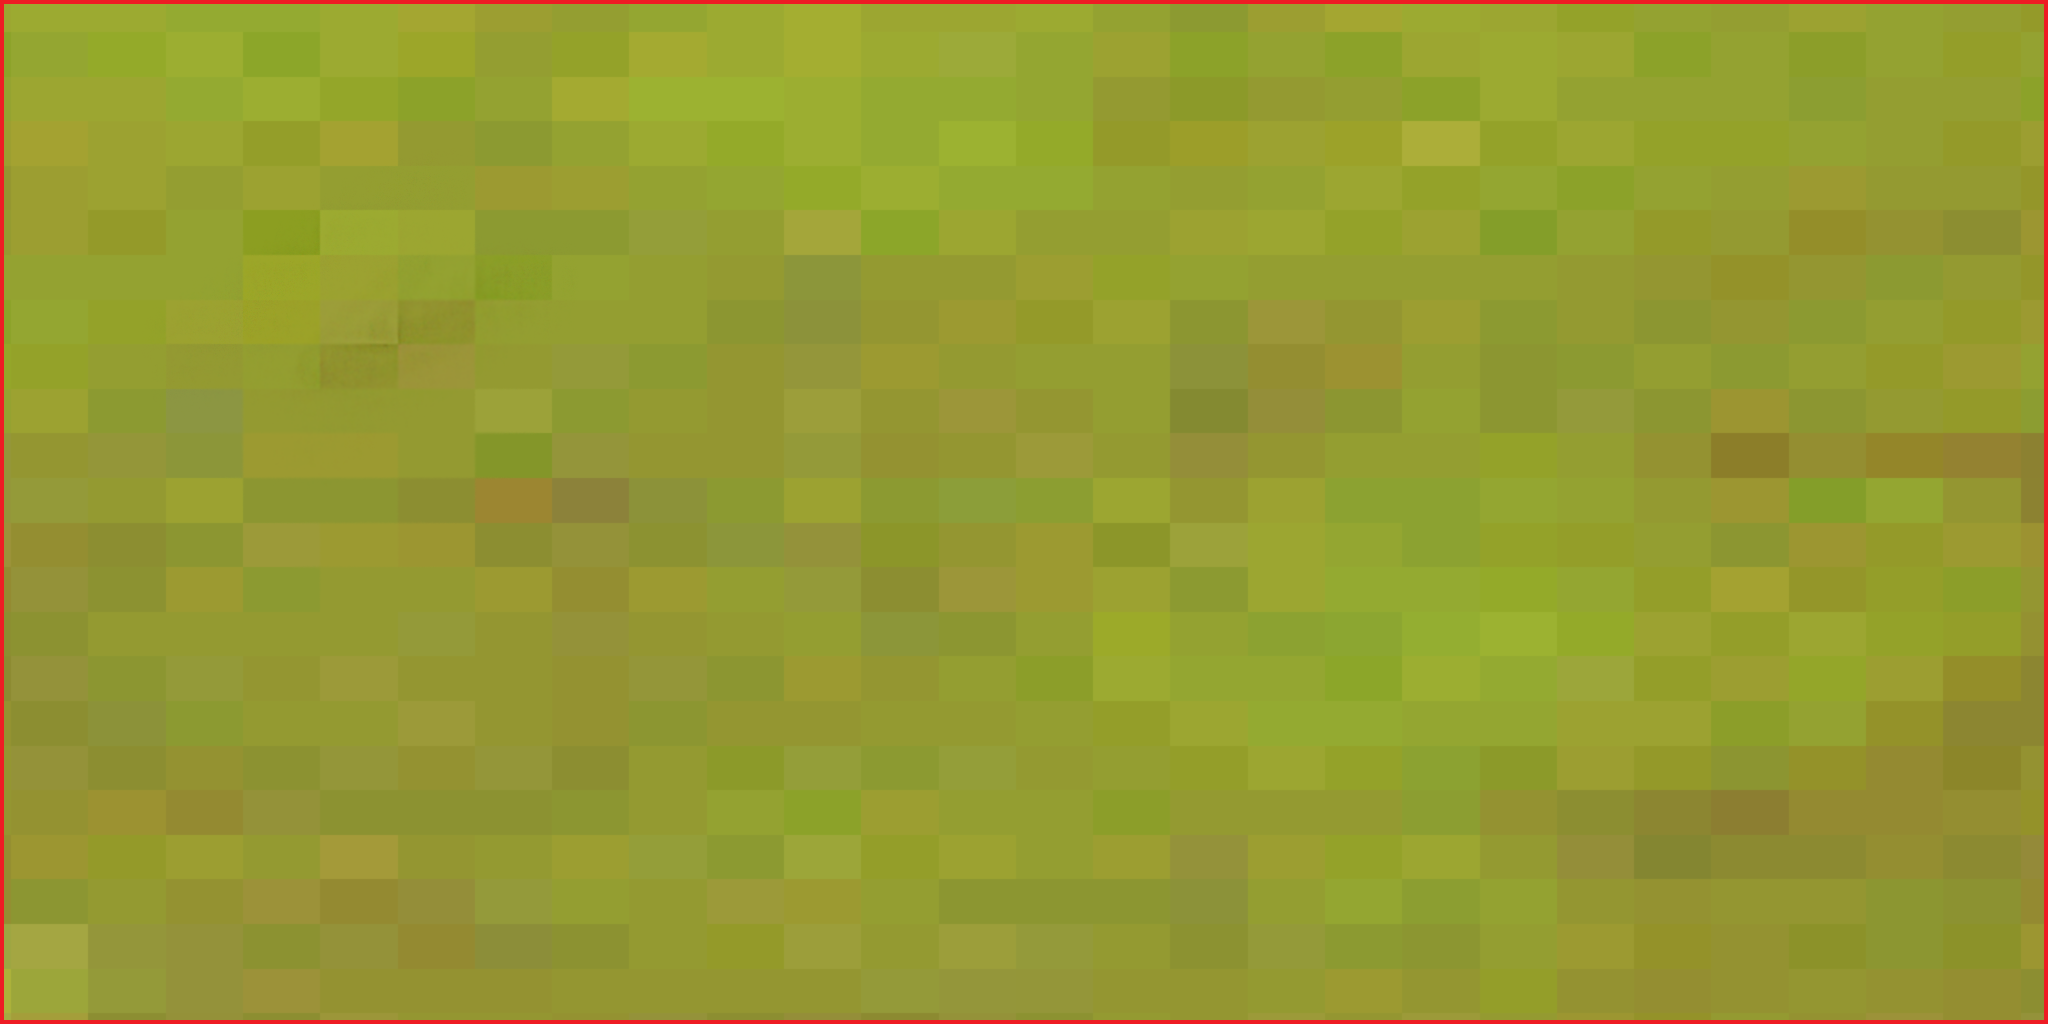
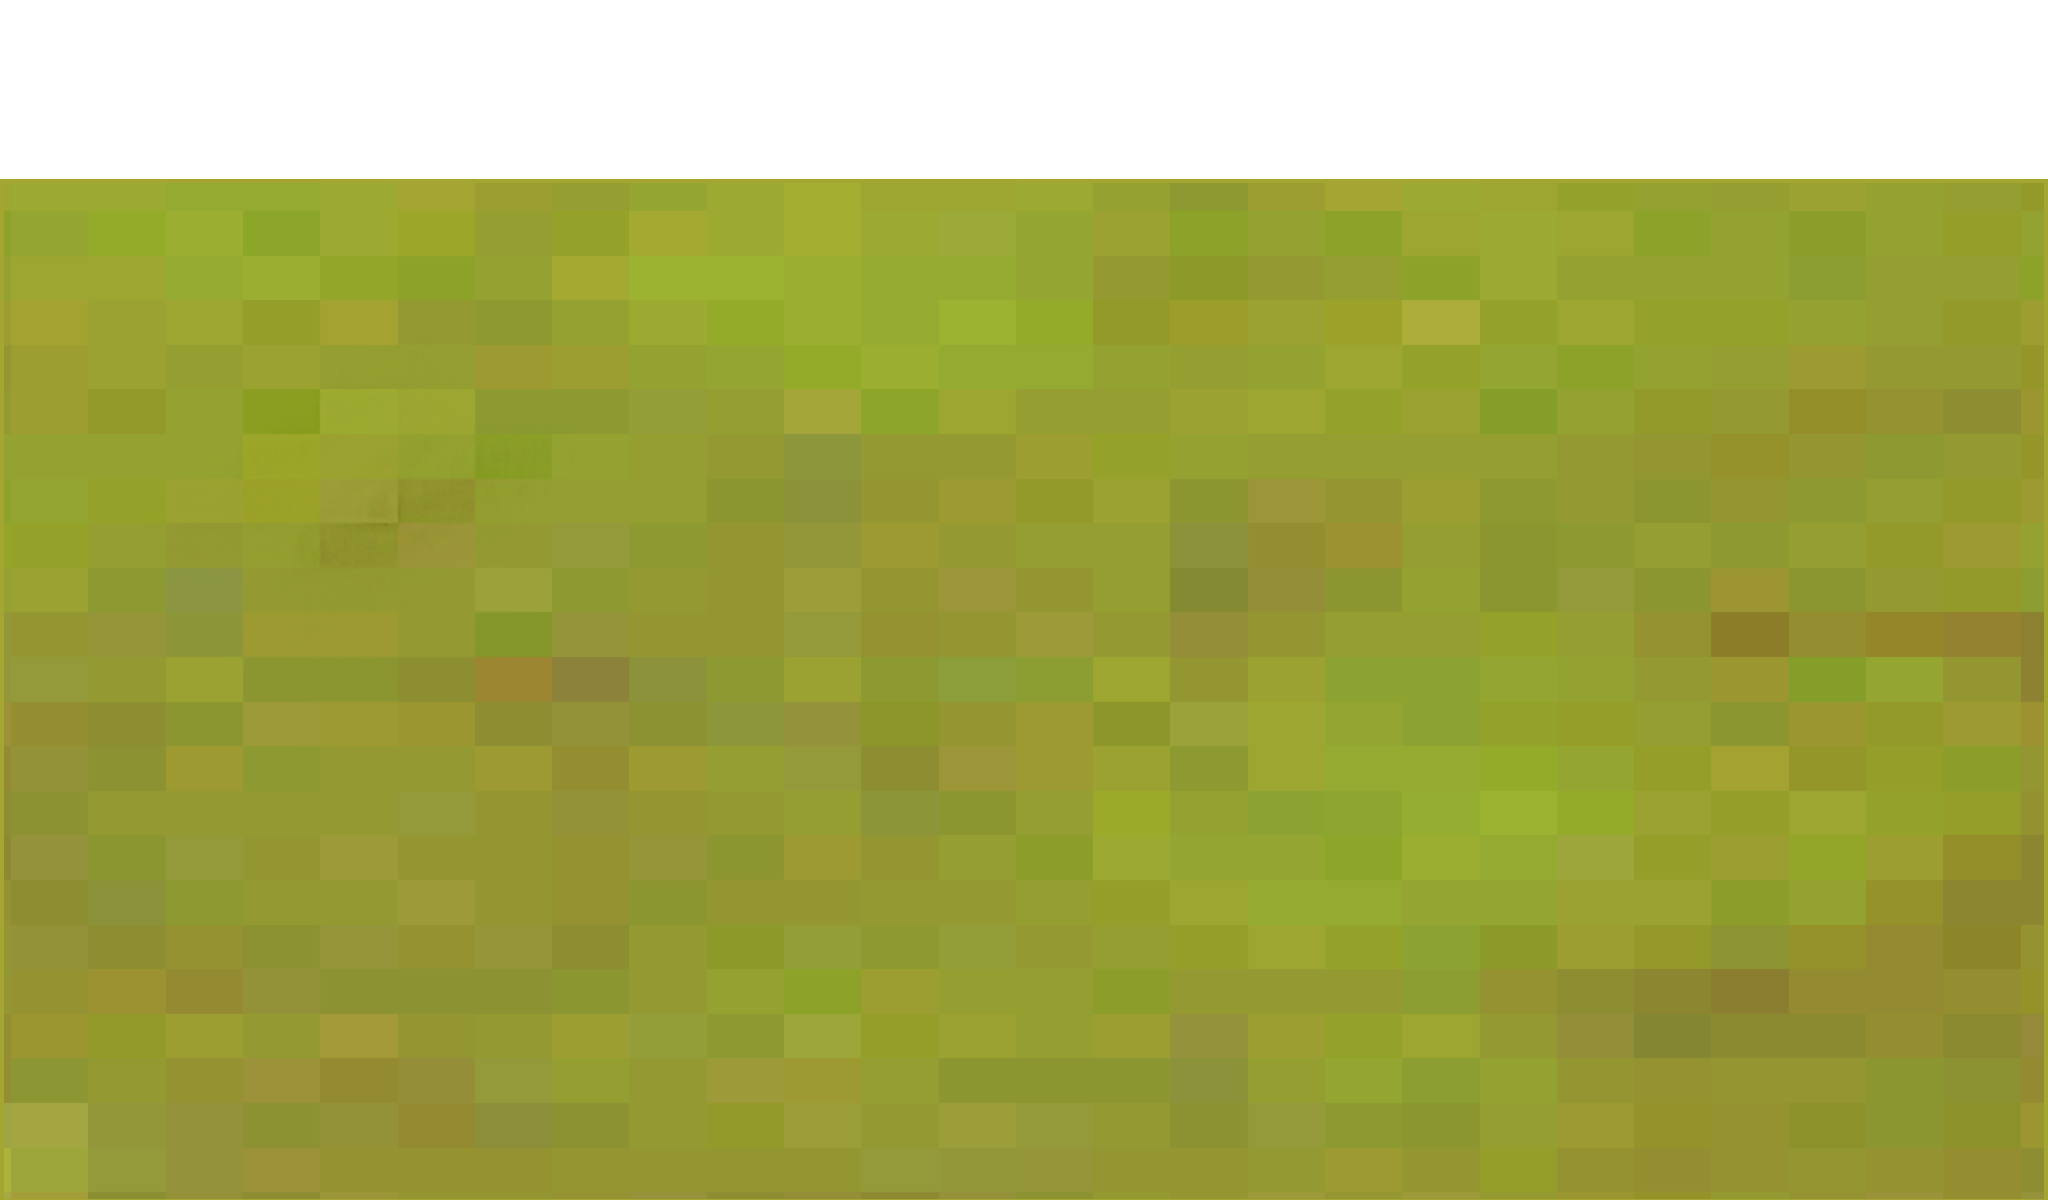
Made all gates touch the border, got rid of red line

diff --git a/TowerDefense/src/com/group23/towerdefense/DefaultLevelGenerator.java b/TowerDefense/src/com/group23/towerdefense/DefaultLevelGenerator.java
@@ -170,12 +170,12 @@ public class DefaultLevelGenerator extends Level.Generator
 			.setTiles(new int[]
 			{
 					0, 0, 0, 0, 0, 0, 0, 0, 0, 0, 0, 0, 0, 0, 0,		
-					0, 0, 0, 0, 0, 0, 0, 0, 0, 0, 0, 7, 2, 0, 0,
+					0, 0, 0, 0, 0, 0, 0, 0, 0, 0, 0, 7, 1, 1, 2,
 					0, 0, 0, 0, 0, 0, 0, 0, 0, 0, 0, 4, 0, 0, 0,
 					0, 0, 0, 7, 1, 1, 1, 1, 1, 1, 1, 6, 0, 0, 0,
 					0, 0, 0, 4, 0, 0, 0, 0, 0, 0, 0, 0, 0, 0, 0,
 					0, 0, 0, 4, 0, 0, 0, 0, 0, 0, 0, 0, 0, 0, 0,
-					0, 0, 3, 6, 0, 0, 0, 0, 0, 0, 0, 0, 0, 0, 0,
+					3, 1, 1, 6, 0, 0, 0, 0, 0, 0, 0, 0, 0, 0, 0,
 					0, 0, 0, 0, 0, 0, 0, 0, 0, 0, 0, 0, 0, 0, 0
 			})
 			.addWave(new Wave.Generator()
@@ -247,7 +247,7 @@ public class DefaultLevelGenerator extends Level.Generator
 			.setTiles(new int[]
 			{
 					0, 0, 0, 0, 0, 0, 0, 0, 0, 0, 0, 0, 0, 0, 0,		
-					0, 0, 3, 8, 0, 0, 7, 1, 8, 0, 0, 7, 2, 0, 0,
+					3, 1, 1, 8, 0, 0, 7, 1, 8, 0, 0, 7, 1, 1, 2,
 					0, 0, 0, 4, 0, 0, 4, 0, 4, 0, 0, 4, 0, 0, 0,
 					0, 0, 0, 4, 0, 0, 4, 0, 4, 0, 0, 4, 0, 0, 0,
 					0, 0, 0, 4, 0, 0, 4, 0, 4, 0, 0, 4, 0, 0, 0,
